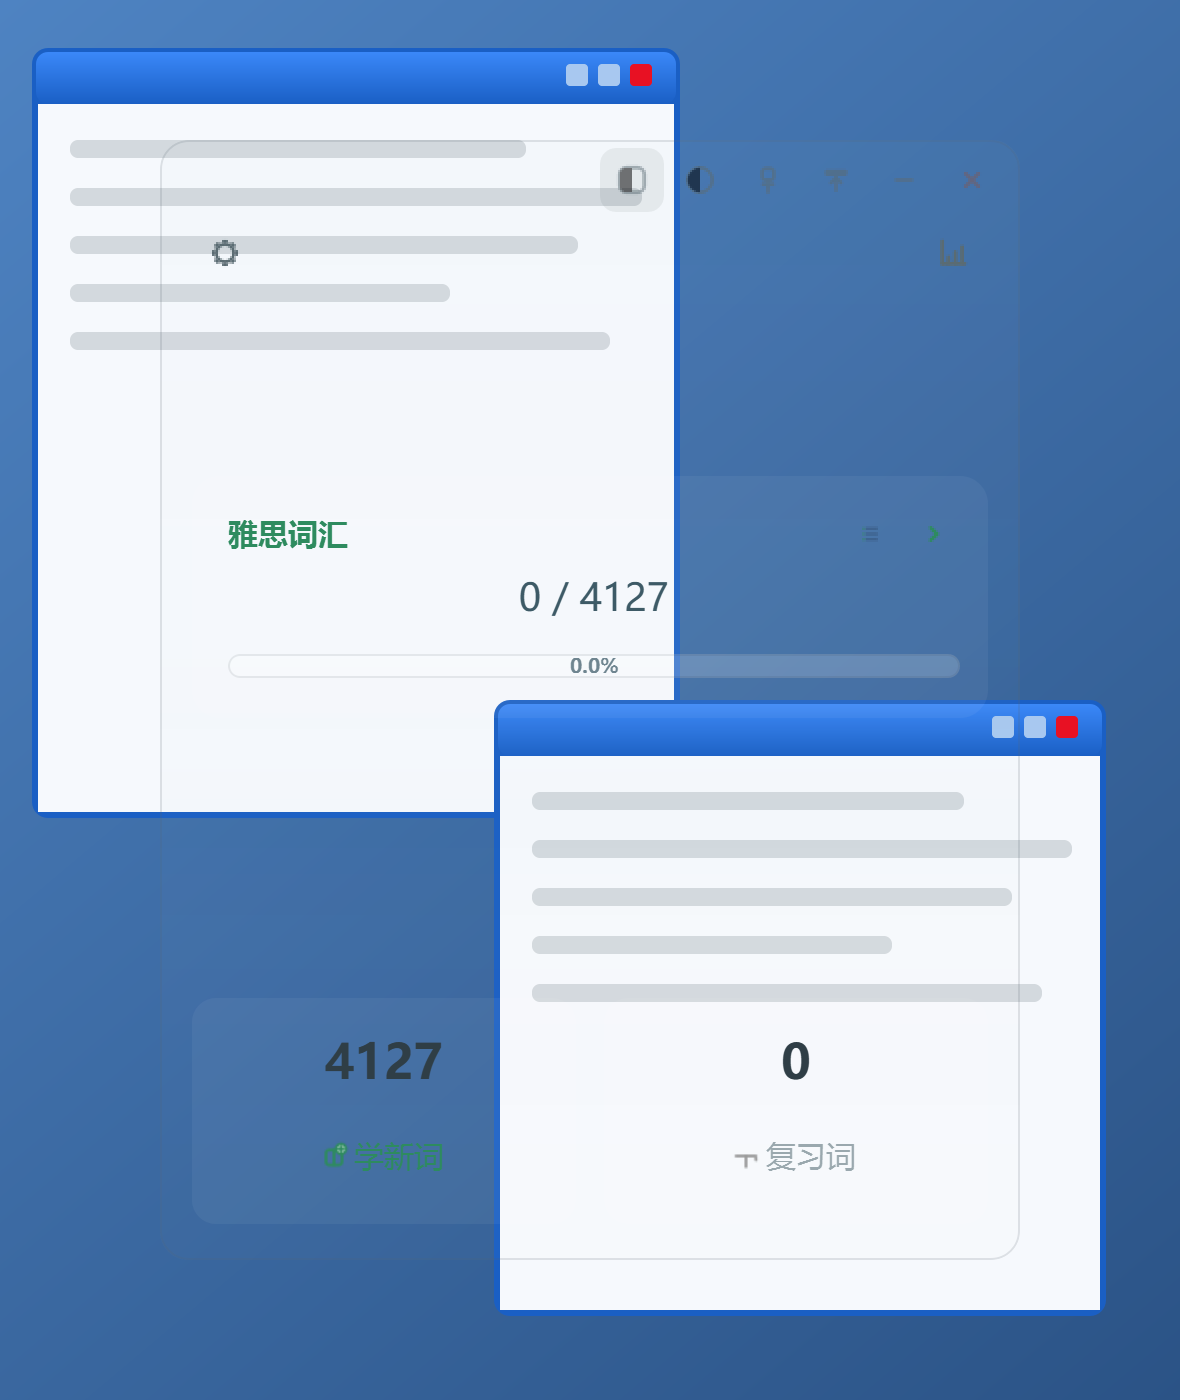
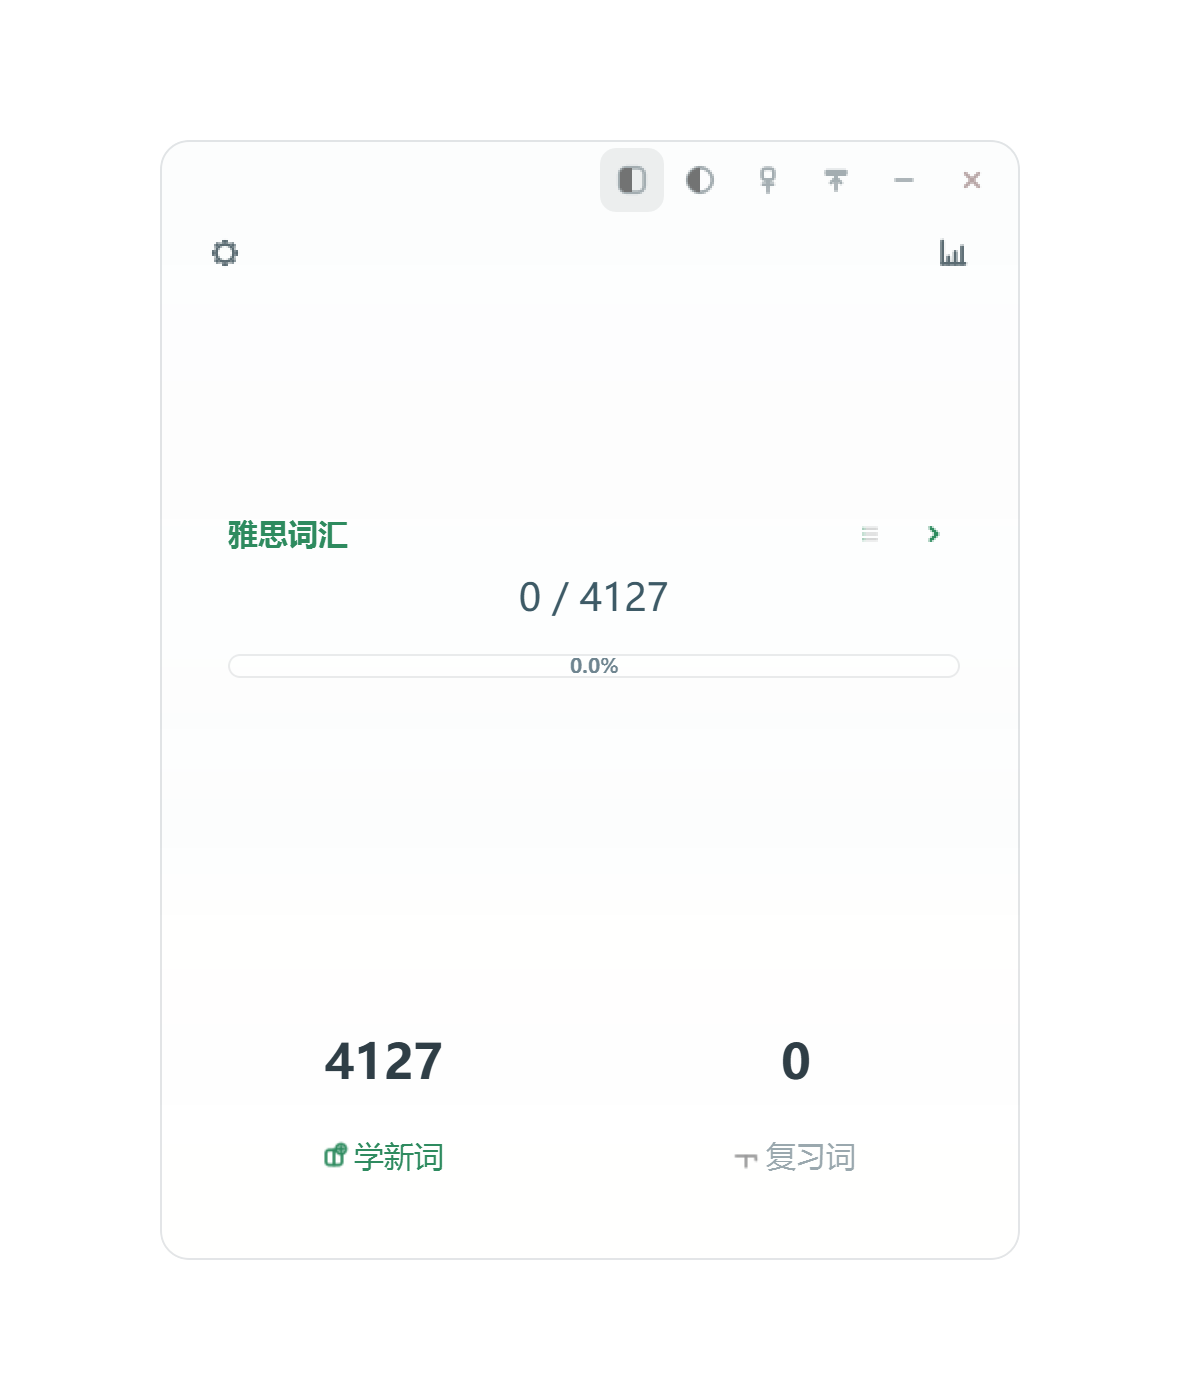
style: 修改隐藏模式下的背景截图

diff --git a/scripts/capture_screenshots.py b/scripts/capture_screenshots.py
@@ -45,13 +45,8 @@ from wordmem.config import settings as _settings_mod  # noqa: E402
 
 _settings_mod.config_file = paths.config_file   # 覆盖已绑定的 from-import
 
-from PySide6.QtCore import QPoint, QRect, QThread, Qt  # noqa: E402
-from PySide6.QtGui import (  # noqa: E402
-    QColor,
-    QImage,
-    QLinearGradient,
-    QPainter,
-)
+from PySide6.QtCore import QPoint, QThread, Qt  # noqa: E402
+from PySide6.QtGui import QImage, QPainter  # noqa: E402
 from PySide6.QtWidgets import QApplication  # noqa: E402
 
 from wordmem.app import build_context  # noqa: E402
@@ -71,52 +66,12 @@ def _grab(window: MainWindow, name: str) -> None:
     print(f"saved {out.relative_to(ROOT)}")
 
 
-# ---- 桌面背景合成：透明模式内容近乎隐形，需衬在"桌面"上才能看清 ----
-def _fake_doc(p: QPainter, rect: QRect) -> None:
-    """画一个经典 Windows 蓝色窗口：蓝色标题条 + 白色内容区 + 灰色横线。"""
-    p.setPen(Qt.NoPen)
-    # 外框（经典窗口蓝）
-    p.setBrush(QColor("#1a5fc4"))
-    p.drawRoundedRect(rect, 8, 8)
-    # 标题条（亮蓝渐变，XP 风格）
-    grad = QLinearGradient(rect.left(), rect.top(), rect.left(), rect.top() + 28)
-    grad.setColorAt(0.0, QColor("#3d8bfd"))
-    grad.setColorAt(1.0, QColor("#1a5fc4"))
-    p.setBrush(grad)
-    p.drawRoundedRect(rect.adjusted(2, 2, -2, -rect.height() + 28), 6, 6)
-    # 标题条右侧三个控制钮（最小化 / 最大化 / 关闭，关闭在最右）
-    btn_y = rect.top() + 8
-    for i, color in enumerate(("#a8c8f0", "#a8c8f0", "#e81123")):
-        p.setBrush(QColor(color))
-        p.drawRoundedRect(rect.right() - 56 + i * 16, btn_y, 11, 11, 2, 2)
-    # 白色内容区
-    body = QRect(rect.left() + 3, rect.top() + 28, rect.width() - 6,
-                 rect.height() - 31)
-    p.setBrush(QColor(255, 255, 255, 245))
-    p.drawRect(body)
-    # 灰色横线模拟文字
-    line_y = body.top() + 18
-    for w_ratio in (0.72, 0.9, 0.8, 0.6, 0.85):
-        p.setBrush(QColor(120, 130, 140, 70))
-        p.drawRoundedRect(body.left() + 16, line_y,
-                          int(body.width() * w_ratio), 9, 4, 4)
-        line_y += 24
-
-
+# ---- 桌面背景合成：透明模式内容近乎隐形，衬在纯白底上隐约可见 ----
 def _make_desktop(w: int, h: int) -> QImage:
-    """合成 Windows 经典蓝色桌面背景（2x），尺寸为逻辑像素。"""
+    """纯白背景（2x），尺寸为逻辑像素。"""
     img = QImage(w * 2, h * 2, QImage.Format_ARGB32_Premultiplied)
     img.setDevicePixelRatio(2.0)
-    img.fill(Qt.transparent)
-    p = QPainter(img)
-    p.setRenderHint(QPainter.Antialiasing)
-    grad = QLinearGradient(0, 0, w, h)
-    grad.setColorAt(0.0, QColor("#4e83c2"))
-    grad.setColorAt(1.0, QColor("#2b5386"))
-    p.fillRect(0, 0, w, h, grad)
-    _fake_doc(p, QRect(16, 24, int(w * 0.55), int(h * 0.55)))
-    _fake_doc(p, QRect(int(w * 0.42), int(h * 0.5), int(w * 0.52), int(h * 0.44)))
-    p.end()
+    img.fill(Qt.white)
     return img
 
 
